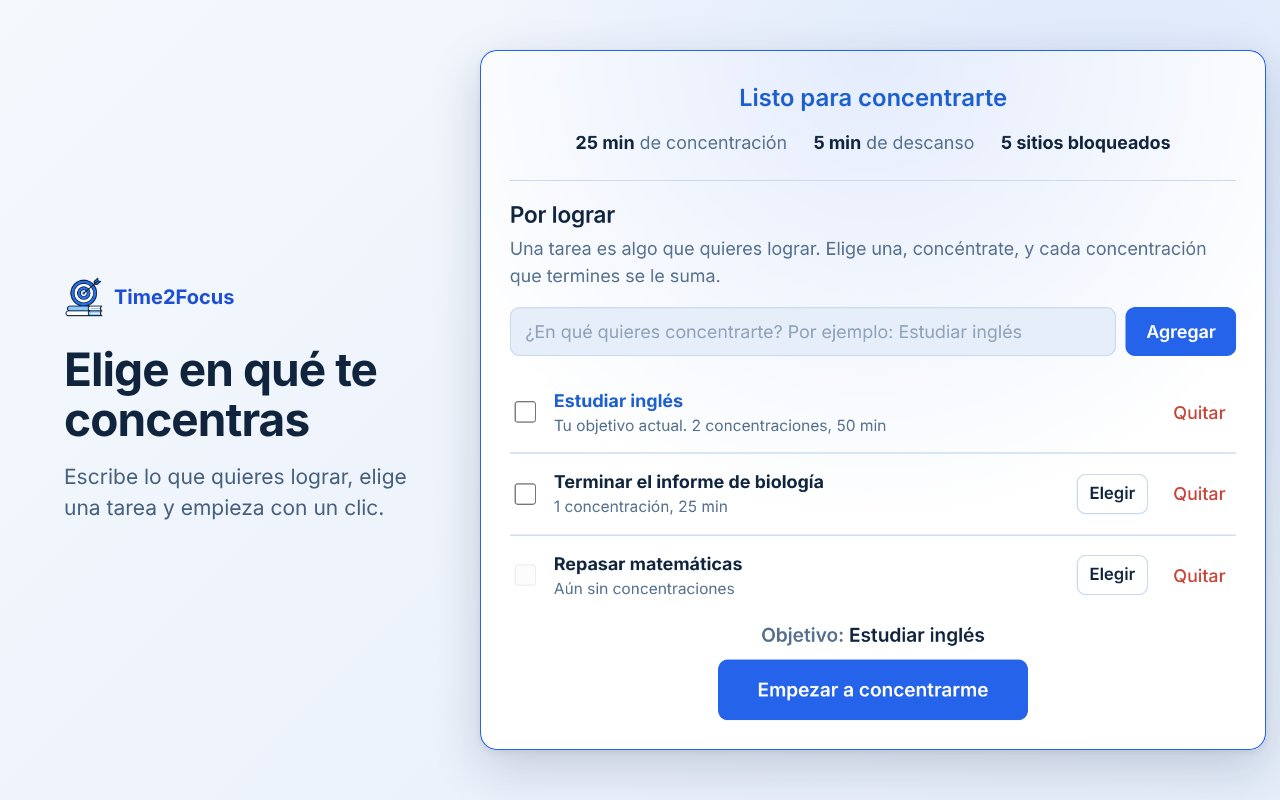
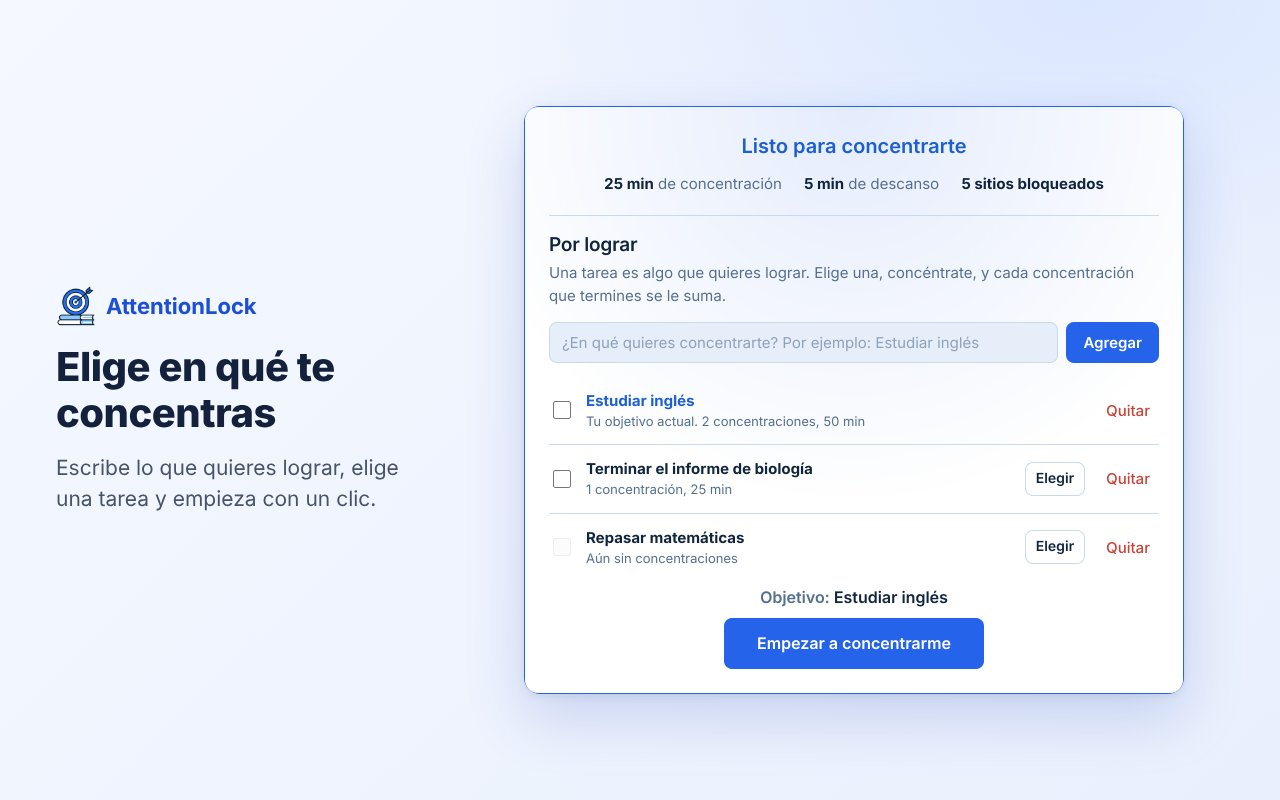
xd

Changed region(s): [[0.375, 0.0625, 1.0, 0.9688], [0.0312, 0.4375, 0.3125, 0.6562], [0.0312, 0.3438, 0.2188, 0.4062]]

diff --git a/privacidad.html b/privacidad.html
@@ -3,7 +3,7 @@
 <head>
   <meta charset="utf-8">
   <meta name="viewport" content="width=device-width, initial-scale=1">
-  <title>Privacidad · Time2Focus</title>
+  <title>Privacidad · AttentionLock</title>
   <link rel="icon" href="img/icono.png">
   <link rel="stylesheet" href="estilos.css">
 </head>
@@ -11,7 +11,7 @@
   <div class="contenedor">
     <header>
       <img src="img/icono.png" alt="">
-      <a href="./">Time2Focus</a>
+      <a href="./">AttentionLock</a>
       <nav>
         <a href="./">Inicio</a>
         <a href="#english">English</a>
@@ -20,19 +20,19 @@
 
     <div class="texto">
       <h1>Política de privacidad</h1>
-      <p class="fecha">Última actualización: 9 de octubre de 2026</p>
+      <p class="fecha">Última actualización: 31 de octubre de 2026</p>
 
-      <p>Time2Focus es una extensión gratuita para Google Chrome que te ayuda a concentrarte con tareas, un temporizador y el bloqueo de sitios que te distraen. Esta política explica qué datos usa y qué hace con ellos.</p>
+      <p>AttentionLock es una extensión gratuita para Google Chrome que te ayuda a concentrarte con tareas, un temporizador y el bloqueo de sitios que te distraen. Esta política explica qué datos usa y qué hace con ellos.</p>
 
       <h2>Resumen</h2>
       <ul>
-        <li>Time2Focus <strong>no recopila, no vende y no envía</strong> datos personales.</li>
+        <li>AttentionLock <strong>no recopila, no vende y no envía</strong> datos personales.</li>
         <li>No tiene cuentas, servidores, anuncios ni herramientas de rastreo o análisis.</li>
         <li>Todo lo que configuras se guarda <strong>solo en tu navegador</strong>.</li>
       </ul>
 
       <h2>Qué se guarda y dónde</h2>
-      <p>Usando el almacenamiento local de Chrome (<code>chrome.storage.local</code>), dentro de tu propio equipo, Time2Focus guarda:</p>
+      <p>Usando el almacenamiento local de Chrome (<code>chrome.storage.local</code>), dentro de tu propio equipo, AttentionLock guarda:</p>
       <ul>
         <li>Tus tareas y tu objetivo actual.</li>
         <li>La lista de sitios que bloqueas, tus grupos y horarios.</li>
@@ -49,13 +49,13 @@
         <li><strong>notifications</strong>: avisarte cuando termina una concentración o un descanso.</li>
         <li><strong>offscreen</strong>: reproducir el sonido del aviso.</li>
       </ul>
-      <p>Time2Focus no lee ni modifica el contenido de las páginas que visitas.</p>
+      <p>AttentionLock no lee ni modifica el contenido de las páginas que visitas.</p>
 
       <h2>Cómo borrar tus datos</h2>
-      <p>Puedes borrarlo todo desde Configuración → "Empezar de cero" → "Borrar todo" dentro de la extensión, o desinstalando Time2Focus. Al desinstalarla, Chrome elimina todos sus datos.</p>
+      <p>Puedes borrarlo todo desde Configuración → "Empezar de cero" → "Borrar todo" dentro de la extensión, o desinstalando AttentionLock. Al desinstalarla, Chrome elimina todos sus datos.</p>
 
       <h2>Menores de edad</h2>
-      <p>Time2Focus no recopila datos de nadie, incluidos los menores de edad.</p>
+      <p>AttentionLock no recopila datos de nadie, incluidos los menores de edad.</p>
 
       <h2>Cambios</h2>
       <p>Si esta política cambia, se publicará aquí con una nueva fecha.</p>
@@ -66,19 +66,19 @@
 
     <div class="texto" id="english" lang="en" style="margin-top:32px">
       <h1>Privacy policy</h1>
-      <p class="fecha">Last updated: October 9, 2026</p>
+      <p class="fecha">Last updated: October 31, 2026</p>
 
-      <p>Time2Focus is a free Google Chrome extension that helps you focus with tasks, a timer and blocking for the sites that distract you. This policy explains what data it uses and what it does with it.</p>
+      <p>AttentionLock is a free Google Chrome extension that helps you focus with tasks, a timer and blocking for the sites that distract you. This policy explains what data it uses and what it does with it.</p>
 
       <h2>Summary</h2>
       <ul>
-        <li>Time2Focus <strong>does not collect, sell or send</strong> any personal data.</li>
+        <li>AttentionLock <strong>does not collect, sell or send</strong> any personal data.</li>
         <li>It has no accounts, servers, ads, tracking or analytics.</li>
         <li>Everything you set up is stored <strong>only in your browser</strong>.</li>
       </ul>
 
       <h2>What is stored and where</h2>
-      <p>Using Chrome's local storage (<code>chrome.storage.local</code>) on your own device, Time2Focus stores:</p>
+      <p>Using Chrome's local storage (<code>chrome.storage.local</code>) on your own device, AttentionLock stores:</p>
       <ul>
         <li>Your tasks and current goal.</li>
         <li>The list of sites you block, your groups and schedules.</li>
@@ -95,13 +95,13 @@
         <li><strong>notifications</strong>: to let you know when a focus session or a break ends.</li>
         <li><strong>offscreen</strong>: to play the alert sound.</li>
       </ul>
-      <p>Time2Focus does not read or change the content of the pages you visit.</p>
+      <p>AttentionLock does not read or change the content of the pages you visit.</p>
 
       <h2>Deleting your data</h2>
-      <p>You can erase everything from Settings → "Start from scratch" → "Delete everything" inside the extension, or by uninstalling Time2Focus. When it is uninstalled, Chrome deletes all of its data.</p>
+      <p>You can erase everything from Settings → "Start from scratch" → "Delete everything" inside the extension, or by uninstalling AttentionLock. When it is uninstalled, Chrome deletes all of its data.</p>
 
       <h2>Children</h2>
-      <p>Time2Focus does not collect data from anyone, including children.</p>
+      <p>AttentionLock does not collect data from anyone, including children.</p>
 
       <h2>Changes</h2>
       <p>If this policy changes, the new version will be published here with a new date.</p>
@@ -110,7 +110,7 @@
       <p>If you have questions, <a class="enlace-ayuda" href="#">write to us here</a> or use the "Support" tab on the Chrome Web Store listing.</p>
     </div>
 
-    <footer>Time2Focus · <a href="./">Inicio</a></footer>
+    <footer>AttentionLock · <a href="./">Inicio</a></footer>
   </div>
   <script src="ayuda.js"></script>
 </body>

diff --git a/index.html b/index.html
@@ -3,7 +3,7 @@
 <head>
   <meta charset="utf-8">
   <meta name="viewport" content="width=device-width, initial-scale=1">
-  <title>Time2Focus</title>
+  <title>AttentionLock</title>
   <meta name="description" content="Tareas, temporizador de concentración y bloqueo de sitios que te distraen. Todo se guarda en tu navegador.">
   <link rel="icon" href="img/icono.png">
   <link rel="stylesheet" href="estilos.css">
@@ -12,7 +12,7 @@
   <div class="contenedor">
     <header>
       <img src="img/icono.png" alt="">
-      <a href="./">Time2Focus</a>
+      <a href="./">AttentionLock</a>
       <nav>
         <a href="privacidad.html">Privacidad</a>
         <a class="enlace-ayuda" href="#">Ayuda</a>
@@ -24,7 +24,7 @@
     <!-- Cuando la extensión esté publicada, cambia el # por el enlace de Chrome Web Store -->
     <a class="boton" href="#">Añadir a Chrome</a>
 
-    <img class="captura" src="img/captura-1-tareas.jpg" alt="Lista de tareas de Time2Focus con el temporizador">
+    <img class="captura" src="img/captura-1-tareas.jpg" alt="Lista de tareas de AttentionLock con el temporizador">
 
     <h2>Qué puedes hacer</h2>
     <div class="funciones">
@@ -36,16 +36,16 @@
       <div class="funcion"><h3>📊 Estadísticas</h3><p>Tiempo enfocado, tareas logradas y una meta semanal con niveles.</p></div>
     </div>
 
-    <img class="captura" src="img/captura-3-bloqueo.jpg" alt="Página de bloqueo de Time2Focus">
+    <img class="captura" src="img/captura-3-bloqueo.jpg" alt="Página de bloqueo de AttentionLock">
 
     <h2>Tu privacidad</h2>
-    <p>Time2Focus no tiene cuentas ni servidores, no muestra anuncios y no envía tus datos a ningún lugar. Lee la <a href="privacidad.html">política de privacidad</a>.</p>
+    <p>AttentionLock no tiene cuentas ni servidores, no muestra anuncios y no envía tus datos a ningún lugar. Lee la <a href="privacidad.html">política de privacidad</a>.</p>
 
     <h2>Ayuda</h2>
     <p>¿Encontraste un error o tienes una idea? <a class="enlace-ayuda" href="#">Escríbenos aquí</a> o desde la pestaña "Asistencia" de Chrome Web Store.</p>
 
     <footer>
-      Time2Focus · <a href="privacidad.html">Privacidad</a> · <a href="privacidad.html#english">Privacy (English)</a>
+      AttentionLock · <a href="privacidad.html">Privacidad</a> · <a href="privacidad.html#english">Privacy (English)</a>
     </footer>
   </div>
   <script src="ayuda.js"></script>
